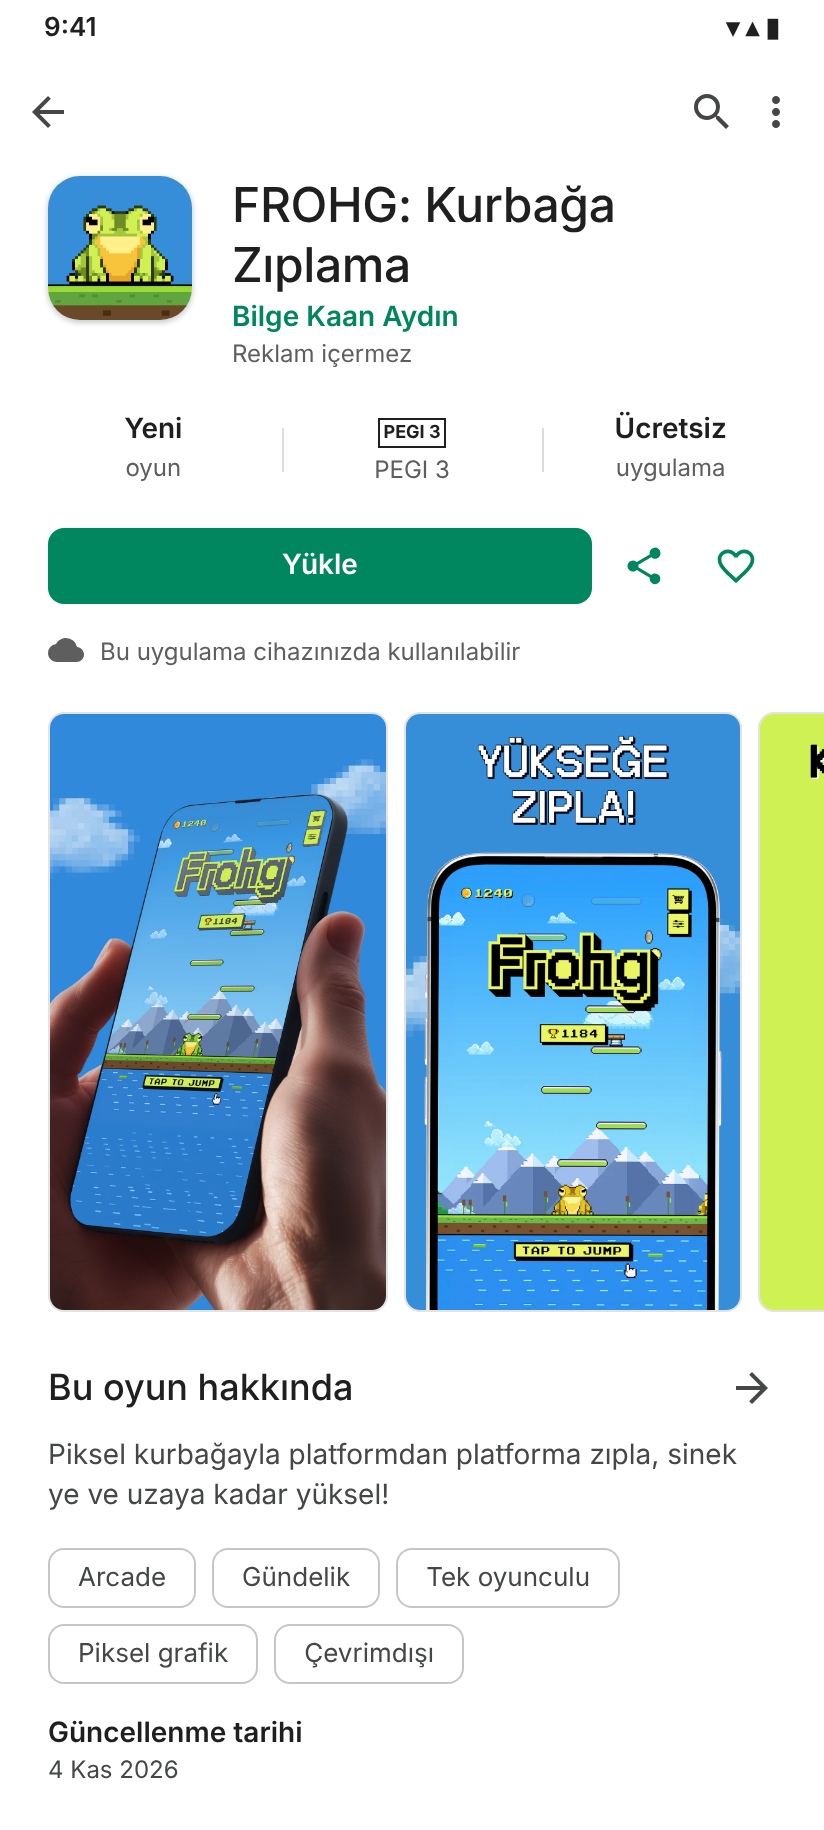
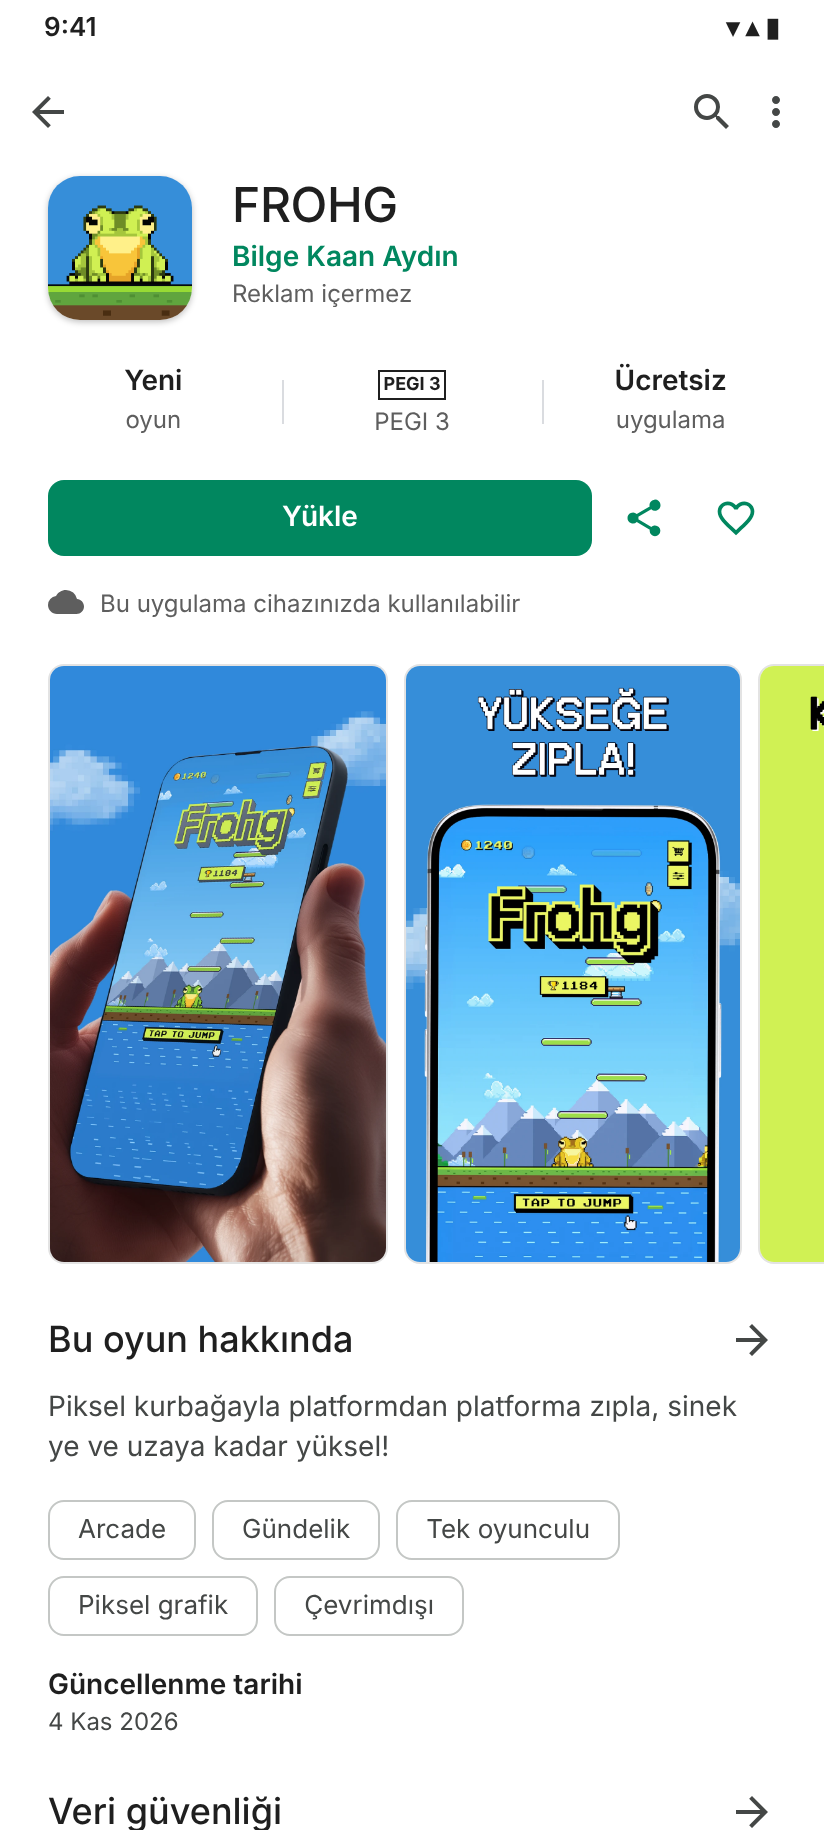
App name is just FROHG in both languages
Claude-Session: https://claude.ai/code/session_01MFj28p9RtNLvWGM2PJBSdZ

Changed region(s): [[0.0607, 0.0934, 1.0, 1.0], [0.7585, 0.1869, 0.9102, 0.3115], [0.9102, 0.9656, 0.9405, 1.0]]

diff --git a/store/LISTING.md b/store/LISTING.md
@@ -38,7 +38,7 @@ Alt satır (isteğe bağlı) / Optional second line:
 
 ## Türkçe
 
-**Uygulama adı (30 karakter):** FROHG: Kurbağa Zıplama
+**Uygulama adı (30 karakter):** FROHG
 
 **Alt başlık / kısa açıklama (App Store 30, Google Play 80 karakter):**
 - App Store: Zıpla, sinek ye, uzaya çık!
@@ -74,7 +74,7 @@ Ne kadar yükseğe zıplayabilirsin?
 
 ## English
 
-**App name (30 characters):** FROHG: Frog Jump
+**App name (30 characters):** FROHG
 
 **Subtitle / short description (App Store 30, Google Play 80 characters):**
 - App Store: Hop, eat flies, reach space!
